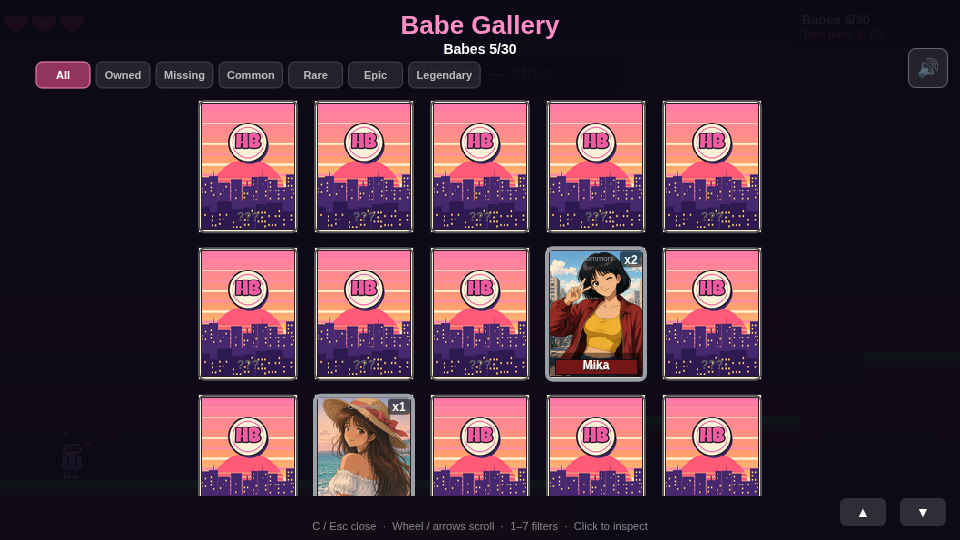
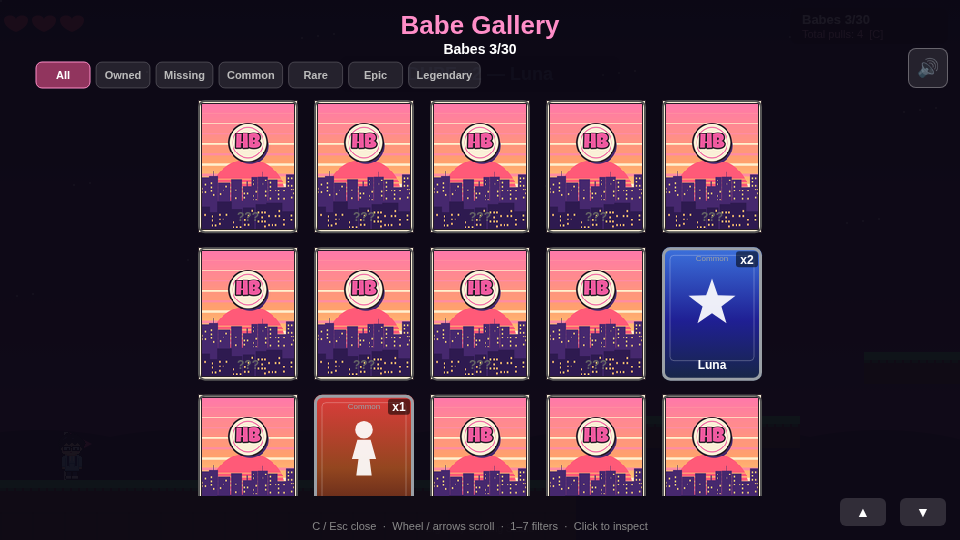
Cardbacks only: restore placeholder babes, drop Iris fronts
Keep mystery A5 + regular cardbacks. Revert BABE_POOL to prior 30
placeholders; migrate mika/sora/rin/kaede saves back to cleo/daisy/nyx/sage.
Untrack v3 card_*.png fronts (files remain on disk).

Changed region(s): [[0.5625, 0.4444, 0.8125, 0.7111], [0.3125, 0.7111, 0.4375, 0.9185]]

diff --git a/index.html b/index.html
@@ -519,14 +519,9 @@ const RARITIES = [
 const RARITY_ORDER = Object.fromEntries(RARITIES.map(r => [r.id, r.order]));
 
 // Placeholder babe defs: { id, name, rarity, hue, shape } — art hooks later via optional `art`
-// Iris art paths: sm 15×20, md 110×147, lg 440×588 (all 3:4)
-function babeArtPaths(name) {
-  const b = "art/cards/v3/card_" + name + "_";
-  return { sm: b + "15x20.png", md: b + "110x147.png", lg: b + "440x588.png" };
-}
-
+// Placeholder babe defs: { id, name, rarity, hue, shape } — front art TBD (cardbacks only for now)
 const BABE_POOL = [
-  // Original placeholders (no Iris art yet)
+  // Original 12
   { id: "ruby",    name: "Ruby",    rarity: "common",    hue: 0,   shape: "hourglass" },
   { id: "luna",    name: "Luna",    rarity: "common",    hue: 220, shape: "star" },
   { id: "jade",    name: "Jade",    rarity: "common",    hue: 140, shape: "diamond" },
@@ -539,32 +534,32 @@ const BABE_POOL = [
   { id: "vex",     name: "Vex",     rarity: "epic",      hue: 270, shape: "circle" },
   { id: "aurora",  name: "Aurora",  rarity: "legendary", hue: 50,  shape: "star" },
   { id: "sol",     name: "Sol",     rarity: "legendary", hue: 15,  shape: "hourglass" },
-  // Artist Iris illustrated set — replaced cleo/daisy/nyx/sage; yuki kept Legendary
-  { id: "mika",    name: "Mika",    rarity: "common",    hue: 340, shape: "circle",    art: babeArtPaths("mika") },
-  { id: "sora",    name: "Sora",    rarity: "common",    hue: 55,  shape: "star",      art: babeArtPaths("sora") },
+  // +18 placeholders
+  { id: "cleo",    name: "Cleo",    rarity: "common",    hue: 340, shape: "circle" },
+  { id: "daisy",   name: "Daisy",   rarity: "common",    hue: 55,  shape: "star" },
   { id: "ember",   name: "Ember",   rarity: "common",    hue: 18,  shape: "diamond" },
   { id: "faye",    name: "Faye",    rarity: "common",    hue: 200, shape: "heart" },
   { id: "gigi",    name: "Gigi",    rarity: "common",    hue: 160, shape: "hourglass" },
   { id: "haze",    name: "Haze",    rarity: "common",    hue: 250, shape: "circle" },
   { id: "iris",    name: "Iris",    rarity: "common",    hue: 275, shape: "star" },
   { id: "juno",    name: "Juno",    rarity: "common",    hue: 95,  shape: "diamond" },
-  { id: "rin",     name: "Rin",     rarity: "rare",      hue: 265, shape: "hourglass", art: babeArtPaths("rin") },
+  { id: "nyx",     name: "Nyx",     rarity: "rare",      hue: 265, shape: "hourglass" },
   { id: "opal",    name: "Opal",    rarity: "rare",      hue: 190, shape: "circle" },
   { id: "piper",   name: "Piper",   rarity: "rare",      hue: 35,  shape: "heart" },
   { id: "quill",   name: "Quill",   rarity: "rare",      hue: 210, shape: "star" },
   { id: "raven",   name: "Raven",   rarity: "rare",      hue: 285, shape: "diamond" },
-  { id: "kaede",   name: "Kaede",   rarity: "epic",      hue: 125, shape: "circle",    art: babeArtPaths("kaede") },
+  { id: "sage",    name: "Sage",    rarity: "epic",      hue: 125, shape: "circle" },
   { id: "tess",    name: "Tess",    rarity: "epic",      hue: 10,  shape: "hourglass" },
   { id: "uma",     name: "Uma",     rarity: "epic",      hue: 310, shape: "star" },
   { id: "wren",    name: "Wren",    rarity: "legendary", hue: 175, shape: "heart" },
-  { id: "yuki",    name: "Yuki",    rarity: "legendary", hue: 205, shape: "diamond",  art: babeArtPaths("yuki") },
+  { id: "yuki",    name: "Yuki",    rarity: "legendary", hue: 205, shape: "diamond" },
 ];
-// Save migration: old placeholder ids → Iris babes that took their slots
+// Map Iris-temp ids from 58dcf8d saves back onto the restored placeholders
 const BABE_ID_MIGRATE = {
-  cleo: "mika",
-  daisy: "sora",
-  nyx: "rin",
-  sage: "kaede",
+  mika: "cleo",
+  sora: "daisy",
+  rin: "nyx",
+  kaede: "sage",
 };
 // Alias for older call sites
 const CHAR_DEFS = BABE_POOL;
@@ -869,12 +864,11 @@ const CARD_ASPECT = 72 / 96; // 3/4
 function cardHeight(w) { return w / CARD_ASPECT; }
 function cardWidth(h) { return h * CARD_ASPECT; }
 
-// Iris cardbacks + fronts (preload; graceful null → procedural)
+// Iris cardbacks only (front art TBD). Graceful null → procedural.
 const cardImgs = {
   ready: false,
   mystery: { sm: null, md: null, lg: null },
   normal: { sm: null, md: null, lg: null },
-  babes: {}, // id → { sm, md, lg }
 };
 
 function pickCardSizeKey(drawW) {
@@ -905,13 +899,6 @@ async function preloadCardArt() {
   for (const [key, file] of sizes) {
     jobs.push(loadImg("art/cards/cardback/A5/cardback_" + file + ".png").then(im => { cardImgs.mystery[key] = im; }));
     jobs.push(loadImg("art/cards/cardback/normal/cardback_" + file + ".png").then(im => { cardImgs.normal[key] = im; }));
-  }
-  for (const b of BABE_POOL) {
-    if (!b.art) continue;
-    cardImgs.babes[b.id] = { sm: null, md: null, lg: null };
-    for (const key of ["sm", "md", "lg"]) {
-      jobs.push(loadImg(b.art[key]).then(im => { cardImgs.babes[b.id][key] = im; }));
-    }
   }
   await Promise.all(jobs);
   cardImgs.ready = true;
@@ -973,49 +960,33 @@ function drawCard(char, x, y, w, h, opts) {
     return;
   }
 
-  // Owned: Iris front if available, else procedural gradient + silhouette
-  const artSet = char.art && cardImgs.babes[char.id];
-  const front = artSet && artSet[sizeKey];
-  if (drawCardBitmap(front, x, y, w, h, useSmooth)) {
-    // rarity rim
-    ctx.strokeStyle = rar.color;
-    ctx.lineWidth = Math.max(2, Math.floor(w * 0.04));
-    roundRect(x + 1, y + 1, w - 2, h - 2, 6);
-    ctx.stroke();
-  } else {
-    const g = ctx.createLinearGradient(x, y, x, y + h);
-    g.addColorStop(0, `hsl(${char.hue}, 70%, 55%)`);
-    g.addColorStop(0.55, `hsl(${char.hue + 20}, 65%, 35%)`);
-    g.addColorStop(1, `hsl(${char.hue}, 50%, 18%)`);
-    roundRect(x, y, w, h, 8);
-    ctx.fillStyle = g;
-    ctx.fill();
-    ctx.strokeStyle = rar.color;
-    ctx.lineWidth = 3;
-    roundRect(x + 1.5, y + 1.5, w - 3, h - 3, 7);
-    ctx.stroke();
-    ctx.strokeStyle = "rgba(255,255,255,0.25)";
-    ctx.lineWidth = 1;
-    if (iconOnly) roundRect(x + 3, y + 3, w - 6, h - 6, 4);
-    else roundRect(x + 8, y + 8, w - 16, h - 28, 4);
-    ctx.stroke();
-    drawSilhouette(
-      x + w / 2,
-      y + h * (iconOnly ? 0.52 : 0.42),
-      Math.min(w, h) * (iconOnly ? 0.62 : 0.55),
-      char.shape,
-      "rgba(255,255,255,0.92)"
-    );
-  }
+  // Owned: procedural placeholder (Iris fronts deferred)
+  const g = ctx.createLinearGradient(x, y, x, y + h);
+  g.addColorStop(0, `hsl(${char.hue}, 70%, 55%)`);
+  g.addColorStop(0.55, `hsl(${char.hue + 20}, 65%, 35%)`);
+  g.addColorStop(1, `hsl(${char.hue}, 50%, 18%)`);
+  roundRect(x, y, w, h, 8);
+  ctx.fillStyle = g;
+  ctx.fill();
+  ctx.strokeStyle = rar.color;
+  ctx.lineWidth = 3;
+  roundRect(x + 1.5, y + 1.5, w - 3, h - 3, 7);
+  ctx.stroke();
+  ctx.strokeStyle = "rgba(255,255,255,0.25)";
+  ctx.lineWidth = 1;
+  if (iconOnly) roundRect(x + 3, y + 3, w - 6, h - 6, 4);
+  else roundRect(x + 8, y + 8, w - 16, h - 28, 4);
+  ctx.stroke();
+  drawSilhouette(
+    x + w / 2,
+    y + h * (iconOnly ? 0.52 : 0.42),
+    Math.min(w, h) * (iconOnly ? 0.62 : 0.55),
+    char.shape,
+    "rgba(255,255,255,0.92)"
+  );
 
   if (!iconOnly) {
     ctx.textAlign = "center";
-    // Name plate over art bottom for readability when using bitmap
-    if (front) {
-      ctx.fillStyle = "rgba(0,0,0,0.45)";
-      roundRect(x + 4, y + h - 28, w - 8, 24, 4);
-      ctx.fill();
-    }
     ctx.font = `bold ${Math.max(10, Math.floor(w * 0.12))}px sans-serif`;
     ctx.fillStyle = "#fff";
     ctx.fillText(char.name, x + w / 2, y + h - 12);

diff --git a/README.md b/README.md
@@ -25,7 +25,7 @@ Open `index.html` (or host the file) on iOS Safari / Android Chrome. Viewport is
 
 - **Audio**: Music Macky `cry_death` one-shot on death (WebAudio; mute with **M** / 🔊). Beeps share a master gain.
 - **Hero**: 32×48 pixel-art sprite (`art/hero/pixel/`), crisp nearest-neighbor; hitbox 18×44 (opaque inset). Idle breath / run sheet / jump / hurt / dead. Falls back to shapes if PNGs fail to load.
-- **Babe pool**: **30** babes (5 with Artist Iris card art: Mika/Sora Common, Rin Rare, Kaede Epic, Yuki Legendary). Mystery A5 cardback in-level; regular cardback for missing slots. in `BABE_POOL` (append entries to grow). Shared **3:4** aspect (`CARD_ASPECT = 72/96`).
+- **Babe pool**: **30** procedural placeholders. **Iris cardbacks**: mystery (A5) for in-level pickups; regular back for uncollected gallery/HUD/Ouch slots. Front art TBD. in `BABE_POOL` (append entries to grow). Shared **3:4** aspect (`CARD_ASPECT = 72/96`).
 - **HUD**: bottom-right 5-slot window into the sorted 30-babe list (`Babes N/30`, icon-only 3:4); slides to focus gains/losses with a brief highlight.
 - **Gallery (C)**: scrollable grid, rarity→name sort, filters All / Owned / Missing / Common / Rare / Epic / Legendary, click for detail.
 - **Collectibles**: **6** babe-coins in the level (sparse). Coins **and enemies** respawn on death.
